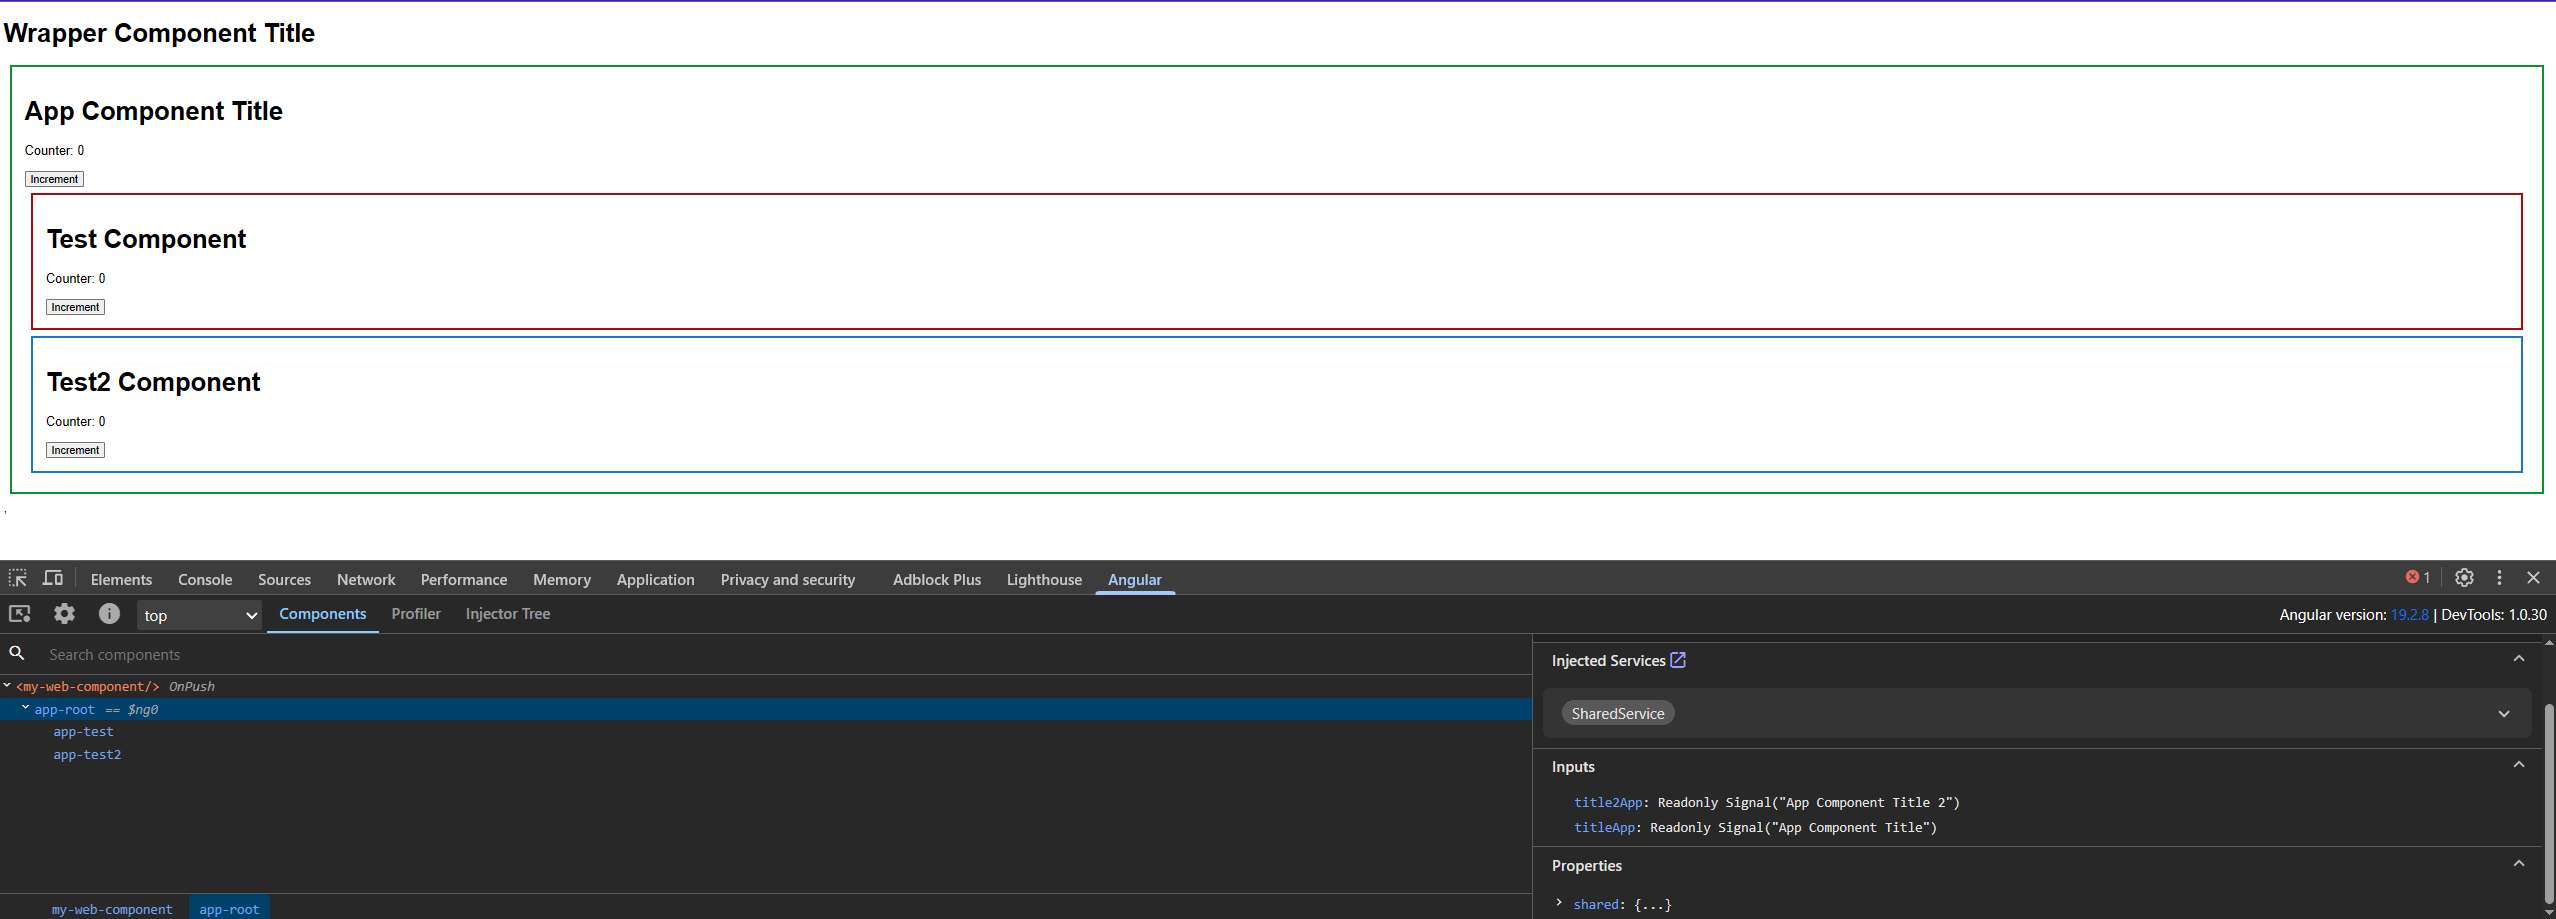
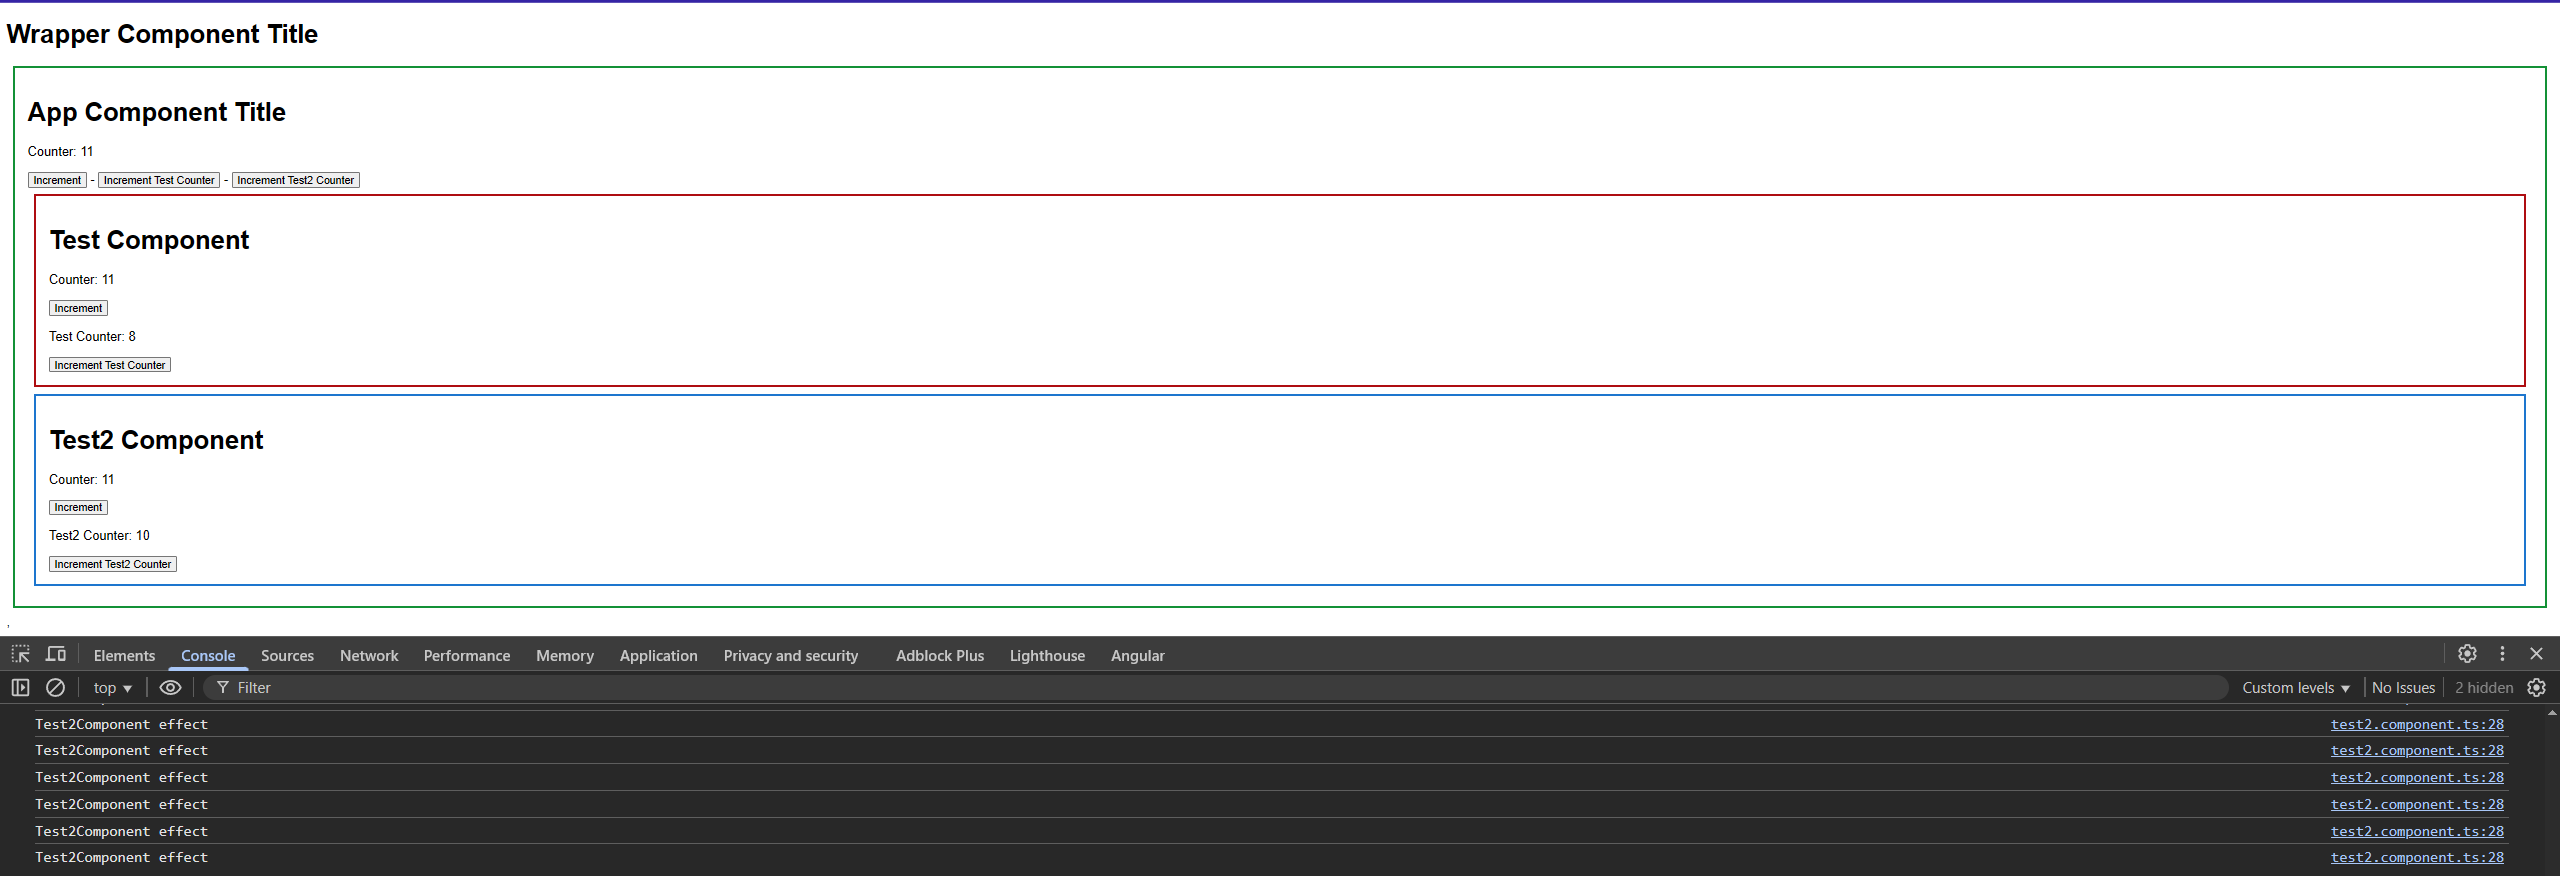
updated change detection strategy

Changed region(s): [[0.0, 0.0, 1.0, 1.0], [0.5872, 0.863, 0.7727, 1.0], [0.989, 0.524, 1.0, 0.5548]]

diff --git a/src/app/app.component.ts b/src/app/app.component.ts
@@ -1,5 +1,6 @@
-import { Component, inject, input } from '@angular/core';
+import { Component, effect, inject, input } from '@angular/core';
 import { SharedService } from './shared.service';
+import { injectCdBlink } from './shared/inject-cd-blink';
 import { TestComponent } from "./test/test.component";
 import { Test2Component } from './test2/test2.component';
 
@@ -10,7 +11,9 @@ import { Test2Component } from './test2/test2.component';
     <div style="border: 3px solid rgb(10, 145, 43); padding: 16px; margin: 8px;">
       <h1>{{ titleApp() }}</h1>
       <p>Counter: {{ shared.counter() }}</p>
-      <button (click)="shared.increment()">Increment</button>
+      <button (click)="shared.increment()">Increment</button> -
+      <button (click)="shared.incrementTestCounter()">Increment Test Counter</button> -
+      <button (click)="shared.incrementTest2Counter()">Increment Test2 Counter</button>
 
       <app-test [title]="titleApp()"></app-test>
       <app-test2 [title]="title2App()"></app-test2>
@@ -22,4 +25,13 @@ export class AppComponent {
   titleApp = input<string>('App Component Title');
   title2App = input<string>('App Component Title 2');
   shared = inject(SharedService);
+
+  constructor() {
+    const blink = injectCdBlink();
+    effect(() => {
+      this.shared.counter();
+      console.log('App Component effect');
+      blink();
+    });
+  }
 }

diff --git a/src/app/test2/test2.component.ts b/src/app/test2/test2.component.ts
@@ -1,5 +1,6 @@
-import { Component, inject, input } from '@angular/core';
+import { Component, effect, inject, input } from '@angular/core';
 import { SharedService } from '../shared.service';
+import { injectCdBlink } from '../shared/inject-cd-blink';
 
 @Component({
   selector: 'app-test2',
@@ -9,6 +10,9 @@ import { SharedService } from '../shared.service';
       <h1>{{ titleTest2() }}</h1>
       <p>Counter: {{ shared.counter() }}</p>
       <button (click)="shared.increment()">Increment</button>
+
+      <p>Test2 Counter: {{ shared.test2Counter() }}</p>
+      <button (click)="shared.incrementTest2Counter()">Increment Test2 Counter</button>
     </div>
   `,
   standalone: true
@@ -16,4 +20,13 @@ import { SharedService } from '../shared.service';
 export class Test2Component {
   titleTest2 = input<string>('Test2 Component');
   shared = inject(SharedService);
+
+  constructor() {
+    const blink = injectCdBlink();
+    effect(() => {
+      this.shared.test2Counter();
+      console.log('Test2Component effect');
+      blink();
+    });
+  }
 }

diff --git a/src/app/test/test.component.ts b/src/app/test/test.component.ts
@@ -1,5 +1,6 @@
-import { Component, inject, input } from '@angular/core';
+import { Component, effect, inject, input } from '@angular/core';
 import { SharedService } from '../shared.service';
+import { injectCdBlink } from '../shared/inject-cd-blink';
 
 @Component({
   selector: 'app-test',
@@ -9,6 +10,9 @@ import { SharedService } from '../shared.service';
       <h1>{{ titleTest1() }}</h1>
       <p>Counter: {{ shared.counter() }}</p>
       <button (click)="shared.increment()">Increment</button>
+
+      <p>Test Counter: {{ shared.testCounter() }}</p>
+      <button (click)="shared.incrementTestCounter()">Increment Test Counter</button>
     </div>
   `,
   standalone: true
@@ -16,4 +20,13 @@ import { SharedService } from '../shared.service';
 export class TestComponent {
   titleTest1 = input<string>('Test Component');
   shared = inject(SharedService);
+
+  constructor() {
+    const blink = injectCdBlink();
+    effect(() => {
+      this.shared.testCounter();
+      console.log('TestComponent effect');
+      blink();
+    });
+  }
 }

diff --git a/src/app/shared/inject-cd-blink.ts b/src/app/shared/inject-cd-blink.ts
@@ -1,0 +1,33 @@
+import { ElementRef, NgZone, inject } from '@angular/core';
+
+export function injectCdBlink(): () => null {
+  const element = inject(ElementRef);
+  const zone = inject(NgZone);
+  let active = false;
+
+  const blink = () => {
+    // Dirty Hack used to visualize the change detector
+
+    const selectedColor =
+      element.nativeElement.firstChild.style.backgroundColor;
+    const visualizerColor = 'crimson';
+
+    !active &&
+      zone.runOutsideAngular(() => {
+        active = true;
+        setTimeout(() => {
+          element.nativeElement.firstChild.style.backgroundColor =
+            visualizerColor;
+        });
+        setTimeout(() => {
+          element.nativeElement.firstChild.style.backgroundColor =
+            selectedColor;
+          active = false;
+        }, 500);
+      });
+
+    return null;
+  };
+
+  return blink;
+}

diff --git a/src/app/shared.service.ts b/src/app/shared.service.ts
@@ -3,8 +3,19 @@ import { Injectable, signal } from '@angular/core';
 @Injectable({ providedIn: 'root' })
 export class SharedService {
   counter = signal(0);
+  testCounter = signal(0);
+  test2Counter = signal(0);
 
   increment() {
     this.counter.set(this.counter() + 1);
   }
+
+  incrementTestCounter() {
+    this.testCounter.set(this.testCounter() + 1);
+  }
+
+  incrementTest2Counter() {
+    this.test2Counter.set(this.test2Counter() + 1);
+  }
+
 } 

diff --git a/README.md b/README.md
@@ -5,10 +5,19 @@
 ## Goal
 
 - Setup zoneless, using stand-alone, web-components and share values across them using signals
+- Use `inject-CD-blink` to control CD cycle. Then every time Angular runs change detection for AppComponent, TestComponent, or Test2Component, the DOM for that component will blink while user interact with the UI (e.g., click increment buttons, change inputs).
 
 ## Demo
 
 ![Demo](./public/assets/image.png)
+
+
+### Results
+
+- You see a blink on load because CD runs once at startup.
+- The blink effect will only trigger when the signal(s) read inside the effect change.
+- This gives you fine-grained control over which state changes cause visual feedback in each component.
+
 
 ## Setup
 
@@ -93,6 +102,16 @@ bootstrapApplication(WrapperComponent, appConfig).then(appRef => {
 ```
 
 Now, application is encapsulated within the wrapper and exported as a Web Component using @angular/element
+
+
+## Change-Detection Works with Signals in Zoneless Angular
+
+✅  Signals are reactive primitives. When you update a signal (ej. counter.set(counter() + 1)), `Angular will automatically trigger change-detection for any component that reads that signal` in its template or in a computed/effect.
+✅  `Zoneless mode means Angular does NOT monkey-patch async APIs` (like setTimeout, XHR, etc.) to auto-trigger change detection. `Instead, Angular only runs change detection when`:
+- An `input changes`
+- An `event` handler (ej. click()) runs
+- `Manually trigger` it (e.g., with ChangeDetectorRef.detectChanges())
+
 
 ---
 
